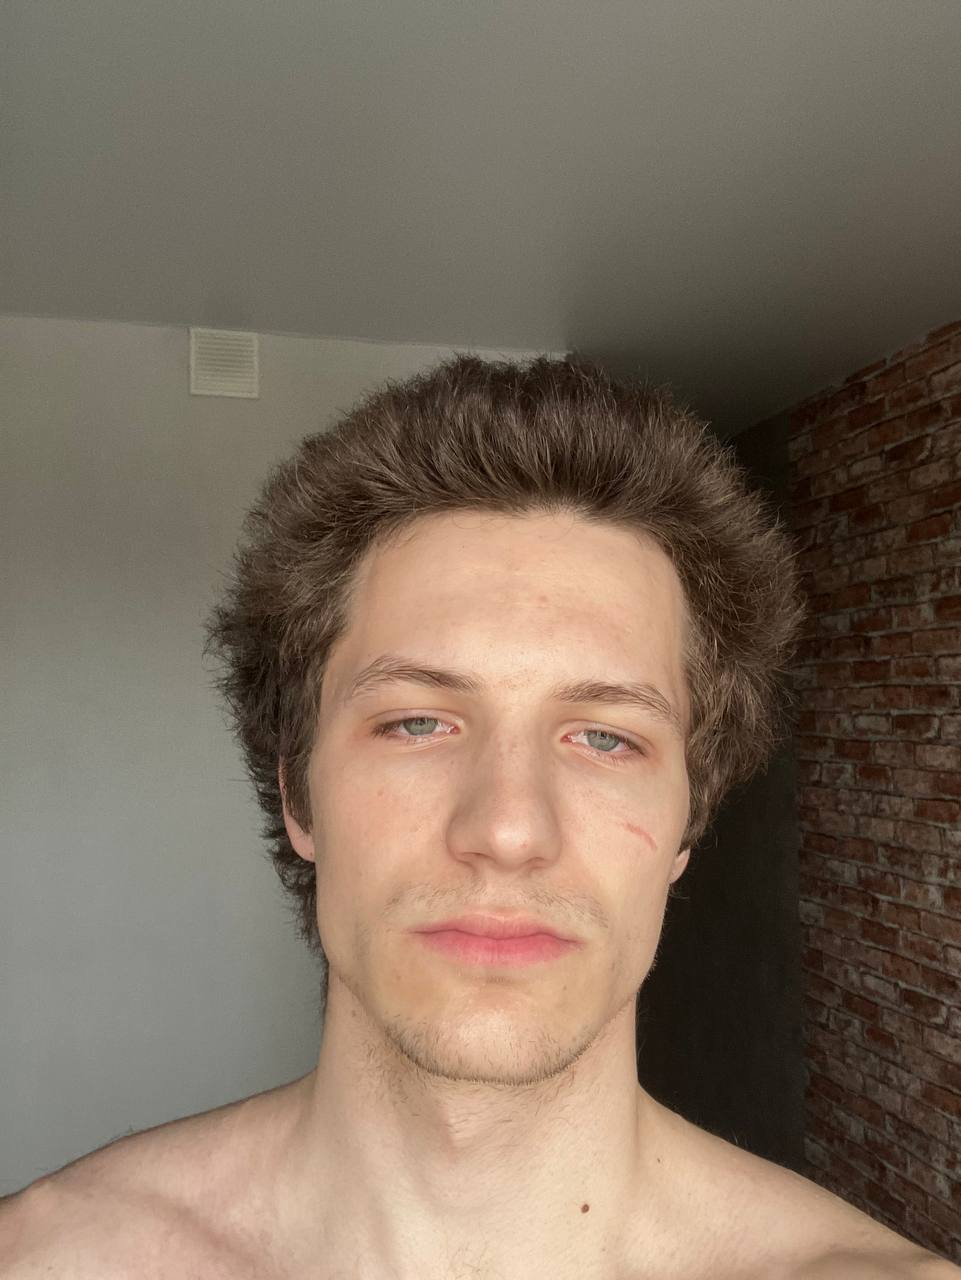
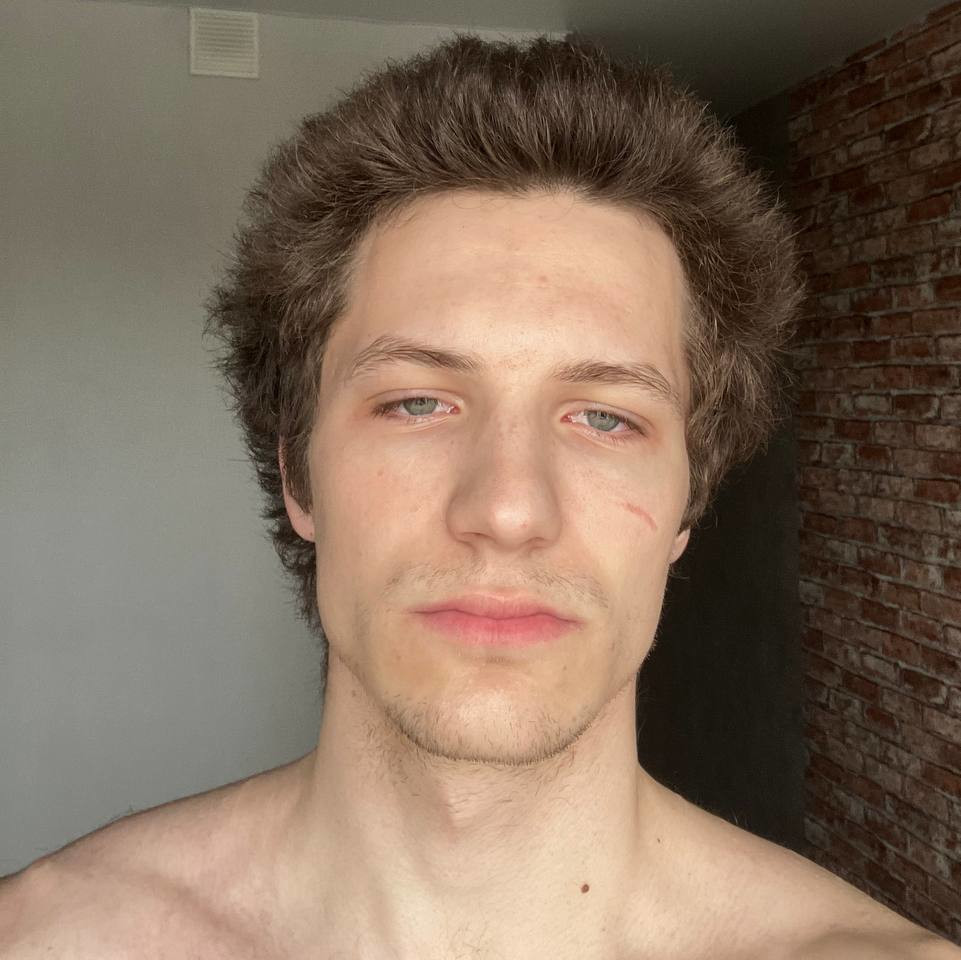
update something

diff --git a/index.html b/index.html
@@ -11,91 +11,72 @@
     <header class="header">
         <nav class="menu">
             <a href="/"><img class="logo" src="./static/img/logo.png" alt="lamb"></a>
-            <a href="blog">blog</a>
+            <!-- <a href="blog">blog</a> -->
         </nav>
     </header>
     <main class="main">
         <section class="about">
             <div class="about-section">
                 <div class="about-section-item">
-                    <img class="about-img" id="img" src="./static/img/me-1.jpg" alt="me" onmouseover="zoomIn(this)" onmouseout="zoomOut(this)">
+                    <img class="about-img" id="img" src="./static/img/img-4.jpg" alt="me" onmouseover="zoomIn(this)" onmouseout="zoomOut(this)">
                 </div>
             </div>
             <div class="about-section">
                 <div class="about-section-item">
-                    <h1>Timofey Basuev</h1>
+                    <h1 class="text-m">timofey basuev</h1>
                 </div>
                 <div class="about-section-item">
-                    <p class="text-upper">Contact</p>
-                    <a href="https://t.me/autaech">Telegram</a>
+                    <p>CONTACT</p>
+                    <a href="https://t.me/autaech" class="context-button border-black">telegram</a>
                 </div>
                 <div class="about-section-item">
-                    <p class="text-upper">Location</p>
-                    <p class="">Russia, Chelyabinsk</p>
+                    <p>LOCATION</p>
+                    <p class="">russia, chelyabinsk</p>
                 </div>
                 <div class="about-section-item">
-                    <p class="text-upper">Passions</p>
+                    <p>PASSIONS</p>
                     <ul class="">
-                        <li>Vim</li>
-                        <li><a href="https://suckless.org">Suckless</a></li>
-                        <li>Thinkpads</li>
-                        <li>Mountains</li>
-                        <li>Lambs</li>
-                        <li>Simplicity</li>
-                        <li>Modernism</li>
-                        <li>Brutalism</li>
+                        <li>vim</li>
+                        <li><a href="https://suckless.org">suckless</a></li>
+                        <li>thinkpads</li>
+                        <li>mountains</li>
+                        <li>lambs</li>
+                        <li>simplicity</li>
+                        <li>modernism, brutalism</li>
                     </ul>
                 </div>
             </div>
             <div class="about-section">
                 <div class="about-section-item">
-                    <p class="text-upper">Experienced</p>
+                    <p>EXPERIENCED</p>
                     <ul class="">
-                        <li>Python</li>
-                        <li>Linux</li>
-                        <li>HTML</li>
-                        <li>CSS</li>
-                        <li>Javascript</li>
+                        <li>python</li>
+                        <li>html</li>
+                        <li>css</li>
+                        <li>javascript</li>
+                        <li>linux</li>
                     </ul>
                 </div>
                 <div class="about-section-item">
-                    <p class="text-upper">Familiared</p>
+                    <p>FAMILIARED</p>
                     <ul class="">
-                        <li>C</li>
-                        <li>Golang</li>
-                        <li>Lua</li>
+                        <li>c</li>
+                        <li>go</li>
+                        <li>lua</li>
+                    </ul>
+                </div>
+                <div class="about-section-item">
+                    <p>INTERESTED</p>
+                    <ul class="">
+                        <li>de-fi</li>
+                        <li>web3</li>
+                        <li>devops</li>
+                        <li></li>
                     </ul>
                 </div>
             </div>
         </section>
     </main>
-    <script>
-        function zoomIn(el) {
-            el.style.transform = "scale(1.5)";
-        }
-        function zoomOut(el) {
-            el.style.transform = "";
-        }
-        function cycleImages() {
-            const imgPath = "./static/img/"
-            const img = document.getElementById("img");
-
-            const photosPathes = ["me-1.jpg", "img-2.jpg", "img-1.jpg", "img-3.jpg"];
-            const photosQuantity = photosPathes.length;
-
-            let counter = 1;
-            let interval = setInterval(function() {
-                img.src = imgPath + photosPathes[counter];
-
-                counter++;
-                if (counter == photosQuantity) {
-                    counter = 0;
-                }
-            }, 5000);
-        }
-        window.onload = function() {
-            cycleImages();
-        }
-    </script>
+    <script src="./static/js/main.js"></script>
 </body>
 </html>

diff --git a/static/css/style.css b/static/css/style.css
@@ -43,6 +43,10 @@ a {
     color: inherit;
 }
 
+.header {
+    margin: 2rem 1rem;
+}
+
 .text-spaced {
     letter-spacing: 0.05rem;
     word-spacing: 0.1rem;
@@ -57,24 +61,17 @@ a {
 }
 
 .about {
-    /* display: flex; */
-    /* justify-content: space-between; */
     display: grid;
     grid-template-columns: repeat(3, 1fr);
     gap: 2rem;
 }
 
-.about-section {
-    /* width: calc( (100% - 1.5rem*3) / 3 ); */
-}
-
 .about-section-item + .about-section-item {
-    margin-top: 2rem;
+    margin-top: 3rem;
 }
 
 .menu {
     display: flex;
-    /* justify-content: flex-end; */
     justify-content: space-between;
     align-items: flex-end;
 }
@@ -84,15 +81,10 @@ a {
     flex-grow: 1;
 }
 
-.about-box {
-    display: grid;
-    grid-template-columns: repeat(2, 1fr);
-    gap: 6rem;
-    row-gap: 4rem;
-}
-
 .about-img {
     width: 100%;
+    height: 34rem;
+    object-fit: cover;
 }
 
 .text-s {
@@ -100,42 +92,21 @@ a {
 }
 
 .text-m {
-    font-size: 1.25rem;
+    font-size: 1.425rem;
 }
 
 .text-l {
-    font-size: 1.75rem;
+    font-size: 1.825rem;
 }
 
-.text-xl {
-    font-size: 2rem;
+
+.border-black {
+    border: 1px solid #000;
 }
 
-.footer {
-    display: flex;
-    justify-content: center;
-    margin: 1rem 0;
-}
-
-.header {
-    margin: 2rem 1rem;
-}
-
-.section-border {
-    border: 1px solid white;
+.context-button {
+    /* padding: 0.5rem 0 0 0.5rem; */
     text-decoration: none;
-}
-
-.text-gray-50 {
-    color: #8f8f8f;
-}
-
-.text-lrgr {
-    font-size: 1.5em;
-}
-
-.text-upper {
-    text-transform: uppercase;
 }
 
 .no-td {
@@ -163,7 +134,7 @@ a {
     }
 
     .about-img {
-        height: 25rem;
+        height: 20rem;
         object-fit: cover;
     }
 
@@ -172,10 +143,14 @@ a {
     }
 
     .about-section + .about-section {
-        margin-top: 2rem;
+        margin-top: 1rem;
+    }
+
+    .about-section-item + .about-section-item {
+        margin-top: 1rem;
     }
 
     .about-section:last-child {
-        margin-bottom: 2rem;
+        margin-bottom: 1rem;
     }
 }

diff --git a/static/js/main.js b/static/js/main.js
@@ -1,0 +1,26 @@
+function zoomIn(el) {
+    el.style.transform = "scale(1.5)";
+}
+function zoomOut(el) {
+    el.style.transform = "";
+}
+function cycleImages() {
+    const imgPath = "./static/img/"
+    const img = document.getElementById("img");
+
+    const photosPathes = ["img-4.jpg", "me-1.jpg", "img-2.jpg", "img-3.jpg", "me-3.jpg", "img-5.jpg"];
+    const photosQuantity = photosPathes.length;
+
+    let counter = 1;
+    let interval = setInterval(function() {
+        img.src = imgPath + photosPathes[counter];
+
+        counter++;
+        if (counter == photosQuantity) {
+            counter = 0;
+        }
+    }, 5000);
+}
+window.onload = function() {
+    cycleImages();
+}
